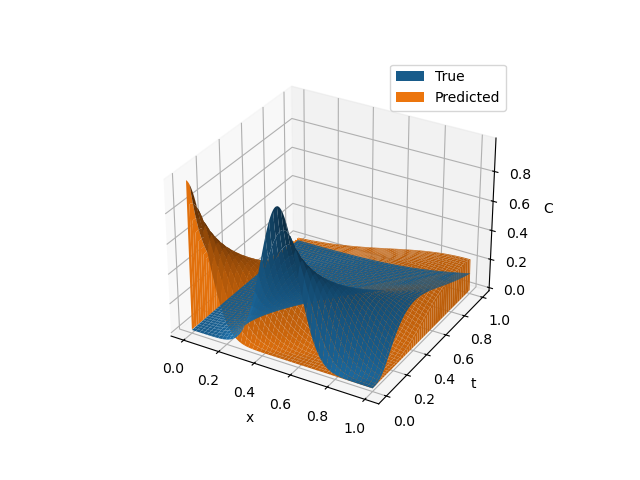
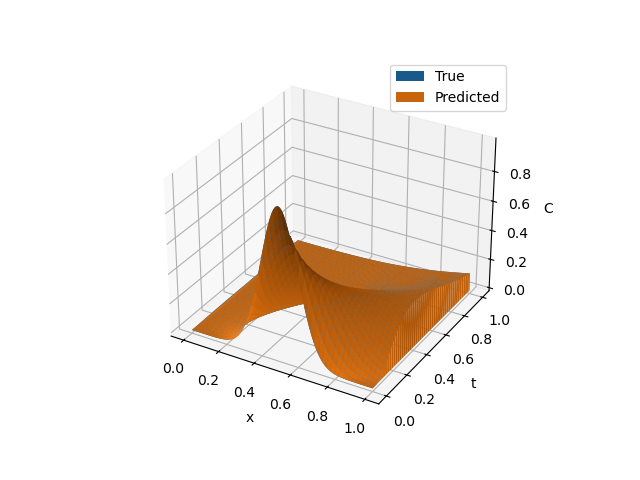
More stuff

Changed region(s): [[0.2812, 0.375, 0.75, 0.8125], [0.5938, 0.1875, 0.6875, 0.2188]]

diff --git a/Python_Code/PINN/ANN/ann.py b/Python_Code/PINN/ANN/ann.py
@@ -46,6 +46,9 @@ def true_sol_cpu(x,t,sigma,D,U,x_0):
 def initial_condition(x,x_0,sigma):
     return np.exp(-1/2*((x-x_0)/sigma)**2)
 
+def initial_condition_gpu(x,x_0,sigma):
+    return torch.exp(-1/2*((x-x_0)/sigma)**2).to(device)
+
 def boundary_condition(t):
     return np.zeros_like(t)
 
@@ -66,8 +69,8 @@ class ConvectionDiffusionPDE(nn.Module):
         x = torch.tanh(x)
         x = self.linear2(x)
         return x
-    def loss(self, x, t, model_result,w_1,w_b1,w_b2):
-        return w_1*mse_loss(model_result, true_sol(x,t,self.sigma,self.D,self.U,0))+w_b1*mse_loss(model_result[0],boundary_conditions_gpu(t))+w_b2*mse_loss(model_result[-1],boundary_conditions_gpu(t))
+    def loss(self, x, t, model_result,w_1,w_b1,w_b2, x_0):
+        return w_1*mse_loss(model_result, true_sol(x,t,self.sigma,self.D,self.U,x_0))+w_b1*mse_loss(model_result[0],boundary_conditions_gpu(t))+w_b2*mse_loss(model_result[-1],boundary_conditions_gpu(t))
     
 
 # Set up the model
@@ -97,7 +100,7 @@ for i in range(t.shape[0]):
     for j in range(epochs):
         res = model[i](x_)
         optimizer.zero_grad()
-        loss = model[i].loss(x_,t_[i],res,w_1,w_b1,w_b2)
+        loss = model[i].loss(x_,t_[i],res,w_1,w_b1,w_b2,x_0)
         loss.backward()
         optimizer.step()
         print(f'Epoch {j}, Loss {loss.item()}')
